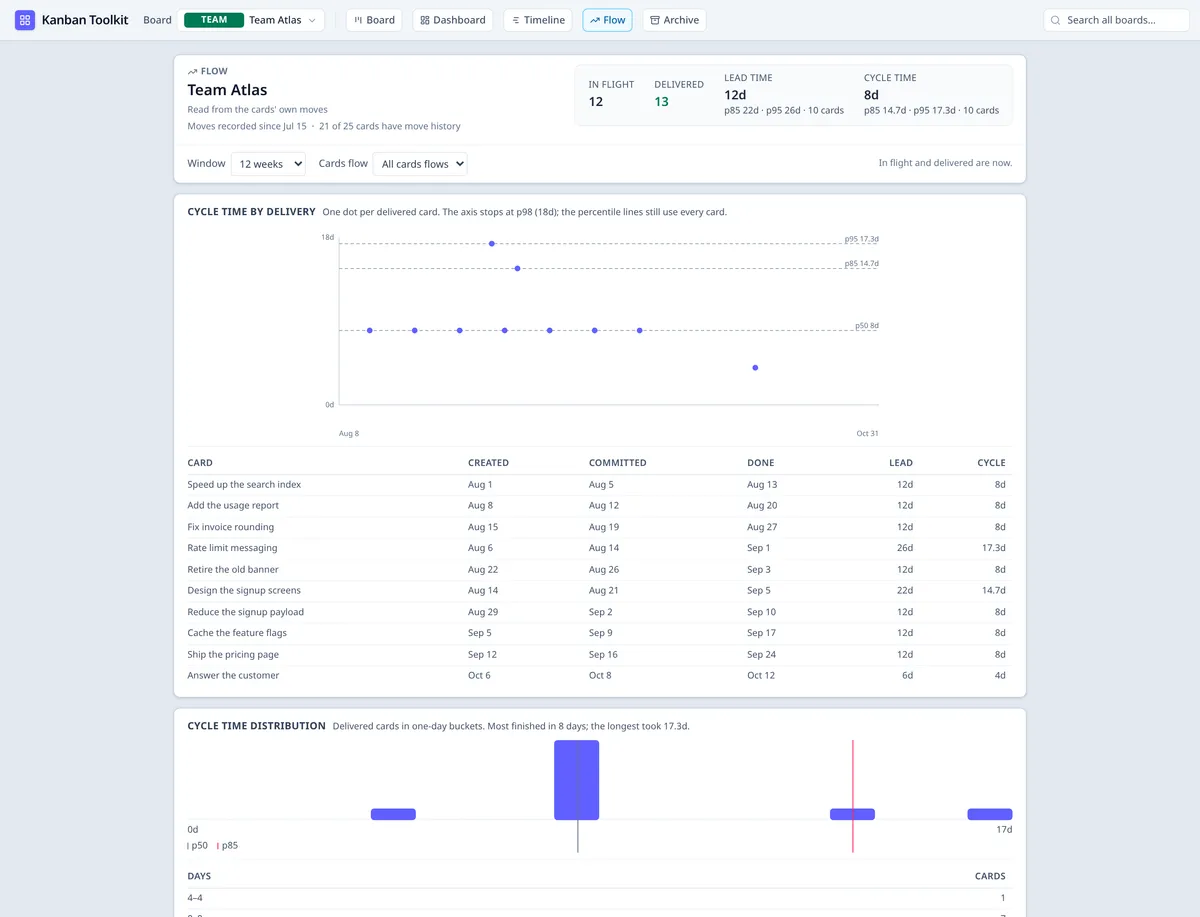
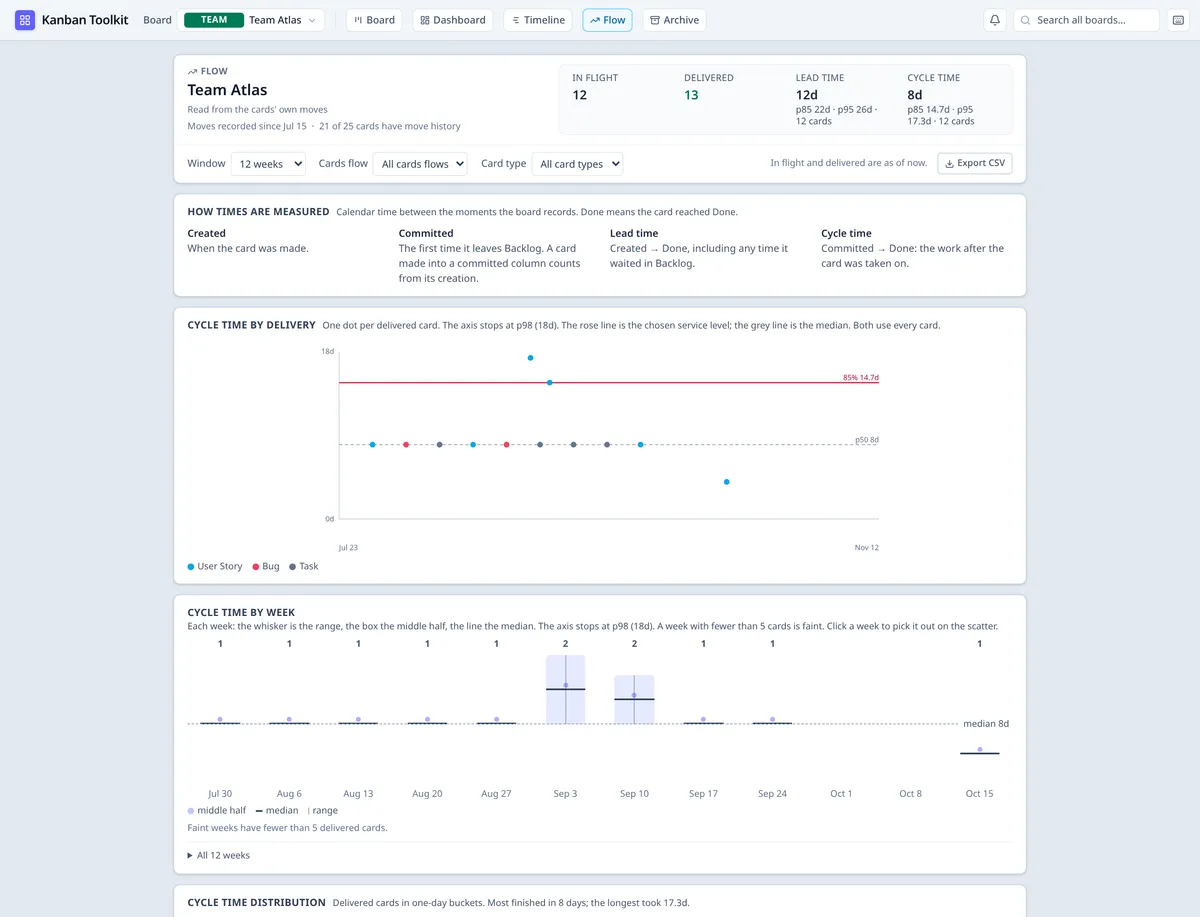
site: describe the new Flow readings and tighten the copy
The homepage and product page now describe the service level that reads both ways, weekly cycle ranges, WIP by age and net flow, and the Flow screenshots are regenerated from the current build. The homepage copy is smoothed where it had become telegrammatic: the hero, the initiatives summary, the warnings, and the level descriptions now carry a little more connective tissue without losing their voice. The old roll-up note is gone, and the privacy panel says what 'your work stays yours' actually means: the board is a file on a machine you control, not a tenant in somebody else's service. README and the Flow guide are updated to the same readings.

diff --git a/site/pages/home.html b/site/pages/home.html
@@ -8,7 +8,7 @@ path: /
     <div class="hero-copy">
       <h1>The open-source <br class="hero-break" /><span>Kanban board for teams</span></h1>
       <p class="lede">
-        Manage the day-to-day work and see how it adds up to larger initiatives. Where the work waits —
+        Manage day-to-day work and see how it connects to larger initiatives. Where the work waits —
         and why — is on the card, so progress and risk need no separate status report.
       </p>
       <p class="cta">
@@ -59,7 +59,7 @@ path: /
           <img src="/img/home-lanes.webp" width="900" height="403" alt="A split column: its cells side by side, each with the name the team gave it, its card count, and the cards inside." />
           <figcaption>
             <span class="dot" aria-hidden="true"></span>
-            Shape the board around the way your team works, with a WIP limit where it helps.
+            Shape the board around the way your team works, putting a WIP limit where it helps.
           </figcaption>
         </figure>
         <figure class="slide slide-2">
@@ -77,10 +77,10 @@ path: /
           </figcaption>
         </figure>
         <figure class="slide slide-4">
-          <img src="/img/home-flow.webp" width="900" height="750" alt="The Flow view: lead and cycle time, a delivery scatter, a cycle-time distribution and aging work, with range, cards-flow and card-type filters." />
+          <img src="/img/home-flow.webp" width="900" height="750" alt="The Flow view: lead and cycle time with a chosen service level, a delivery scatter and weekly range, and the cycle-time distribution, with range, cards-flow and card-type filters." />
           <figcaption>
             <span class="dot" aria-hidden="true"></span>
-            Lead time, cycle time, throughput and a forecast — read from the cards' own moves.
+            Percentile service levels, weekly ranges, aging WIP, net flow and a forecast — read from the cards' own moves.
           </figcaption>
         </figure>
       </div>
@@ -101,10 +101,10 @@ path: /
       <p class="kicker">For the whole team</p>
       <h2>The cards hold the detail. The initiatives show how it adds up.</h2>
       <p>
-        A team board is both at once. Its <strong>cards flows</strong> are a kanban the team shapes
-        for its own work — columns, splits and WIP limits, and a second flow when another kind of
-        work needs its own lane. The <strong>initiatives lane</strong> above reads those same cards
-        as the summary leaders and stakeholders see, so nothing is entered twice.
+        A team board does both at once. Its <strong>cards flows</strong> are a kanban the team shapes
+        for its own work — columns, splits and WIP limits, and a second flow when another kind of work
+        needs its own lane. The <strong>initiatives lane</strong> above reads those same cards as the
+        summary that leaders and stakeholders see, so nothing is entered twice.
       </p>
     </div>
 
@@ -133,16 +133,15 @@ path: /
           <svg class="ico" viewBox="0 0 24 24" fill="none" stroke="currentColor" stroke-width="1.8" stroke-linecap="round" stroke-linejoin="round" aria-hidden="true"><path d="M3 3v18h18"/><path d="m7 15 4-6 4 3 5-8"/></svg>
           The initiatives lane
         </p>
-        <h3>The summary leaders and stakeholders read</h3>
+        <h3>The summary that leaders and stakeholders read</h3>
         <p>
           Above the cards, the initiatives lane groups the outcomes the team delivers and counts
-          progress, dates and health from the cards beneath them — the same work, not a second
-          report.
+          progress, dates and health from the cards beneath it — the same work, not a second report.
         </p>
         <ul class="checked">
           <li>Progress and health rolled up as the cards move</li>
           <li>One summary to share with leaders and stakeholders</li>
-          <li>The detail stays on the card, where the team works</li>
+          <li>The working detail stays with the team, not in the summary</li>
           <li>Both views read one board and one set of cards</li>
         </ul>
       </article>
@@ -150,23 +149,18 @@ path: /
 
     <div class="signals-block">
       <p class="signals-head">
-        <strong>Warnings and roll-ups, counted from the work.</strong> A card says when it started
-        late, is overdue, has gone stale, is blocked or waits on a dependency. The same rules read
-        the hierarchy, so an initiative reports what needs attention below it. No flag is set by
-        hand, and each clears when the work moves.
+        <strong>Warnings and roll-ups, counted from the work.</strong> A card says when its planned
+        start has slipped, when it is overdue or stale, when it is blocked, or when it is waiting on a
+        dependency. The same rules read the hierarchy, so an initiative reports what needs attention
+        below it. No flag is set by hand, and each clears when the work moves.
       </p>
       <ul class="signals">
-        <li><span class="signal watch">late start</span>The planned start passed and the work has not begun.</li>
-        <li><span class="signal risk">3d overdue</span>The promise passed and the work is not done.</li>
-        <li><span class="signal watch">still 17d</span>Committed work that has not moved in a week.</li>
-        <li><span class="signal risk">blocked</span>The reason is written on the card, where the team sees it.</li>
-        <li><span class="signal quiet">2 open</span>Waiting on work that is not done, here or on another board.</li>
+        <li><span class="signal watch">late start</span>The planned start has passed, but the work has not begun.</li>
+        <li><span class="signal risk">3d overdue</span>The promised day has passed, and the work is not done.</li>
+        <li><span class="signal watch">still 17d</span>Committed work that has not moved for a week.</li>
+        <li><span class="signal risk">blocked</span>The reason is written on the card, not hidden in a chat.</li>
+        <li><span class="signal quiet">2 open</span>Work it depends on, whether here or on another board.</li>
       </ul>
-      <p class="signals-note">
-        <strong>It rolls up.</strong> The initiative above repeats the counts — <em>1 blocked</em>,
-        <em>2 waiting</em>, <em>still 29d</em>, <em>1 unowned</em> — read from its cards, so a
-        leader's summary and the team's board cannot disagree.
-      </p>
     </div>
   </div>
 </section>
@@ -191,8 +185,8 @@ path: /
         </p>
         <h3>The day-to-day work</h3>
         <p>
-          The team's own cards flows, columns and WIP limits, with the initiatives its work rolls up
-          into. This is where cards are made and moved.
+          The team's own cards flows, columns and WIP limits, together with the initiatives its work
+          rolls up into. This is where cards are created and moved.
         </p>
         <ul class="checked">
           <li>Cards, cards flows and the initiatives lane</li>
@@ -208,8 +202,8 @@ path: /
         </p>
         <h3>How teams deliver together</h3>
         <p>
-          A coordination board over the teams beneath it: its own initiatives and a band per linked
-          board, read for progress, dependencies and where one team is waiting on another.
+          A coordination board over the teams beneath it: its own initiatives, plus a band for each
+          linked board, read for progress, dependencies, and where one team is waiting on another.
         </p>
         <ul class="checked">
           <li>One band per linked team or program</li>
@@ -230,7 +224,7 @@ path: /
         </p>
         <ul class="checked">
           <li>Objectives and the initiatives mapped to them</li>
-          <li>Coverage: what nothing serves, and what serves nothing</li>
+          <li>Coverage: objectives with no initiative, and initiatives serving no objective</li>
           <li>Progress and health for each objective</li>
         </ul>
       </article>
@@ -262,8 +256,9 @@ path: /
         </p>
         <h3>Your work stays yours</h3>
         <p>
-          Changes save as you make them, or as soon as the connection returns, and land in the order
-          they were made, so everybody reads the same copy.
+          Your board is not a tenant inside somebody else's service. It is a database file on a
+          machine you control, with no vendor account in the path — copy it, move it or restore it
+          whenever you want.
         </p>
       </article>
 

diff --git a/site/pages/product.html b/site/pages/product.html
@@ -27,8 +27,8 @@ path: /product/
 <p>
   Every top-level column is one of four stages — Backlog, Not Started, In Progress, Done — and that is
   fixed. The shape between them is yours: split a column into the cells the team actually uses, name
-  them, and put a WIP limit on the one that needs it. A limit can tint the lane, ask for a reason, or
-  hold the move.
+  them, and put a WIP limit on the one that needs it. A limit can tint the lane, ask for a reason
+  before a move, or hold the move.
 </p>
 <p>
   A board carries one initiatives flow and one or more cards flows — a delivery flow and a support
@@ -80,10 +80,11 @@ path: /product/
 
 <h2 id="initiatives">Initiatives, computed from the work below</h2>
 <p>
-  An initiative has no status field and nothing to estimate. Its status is the rollup of its leaves,
-  and its completion is the share of them that are done — one issue, one share, counted rather than
-  weighted. A Backlog leaf counts in the percentage without dragging a committed initiative backwards,
-  and when committed work sits over unplanned leaves the card warns rather than correcting itself.
+  An initiative has no status field and nothing to estimate on its own. Its status is the rollup of
+  its leaves, and its completion is the share of them that are done — one issue, one share, counted
+  rather than weighted. A Backlog leaf counts in the percentage without dragging a committed
+  initiative backwards, and when committed work sits over unplanned leaves the card warns rather than
+  correcting itself.
 </p>
 <figure class="shot">
   <img src="/img/initiatives.webp" width="1408" height="499" alt="The initiatives flow: four initiatives under their stage headings, each with its progress bar, people and badges for warnings and rollups." />
@@ -93,7 +94,8 @@ path: /product/
 <p>
   A portfolio board leads with a strategy map. Each objective heads the board's own initiatives flow,
   narrowed to the initiatives attributed to it — from any board — and the two coverage gaps are said
-  where they occur: an objective nothing serves, and an initiative serving nothing.
+  where they occur: an objective with no initiative behind it, and an initiative that serves no
+  objective.
 </p>
 <p>
   Progress comes from the leaves below, and a period says when it is due. Key results are statements,
@@ -105,13 +107,15 @@ path: /product/
 
 <h2 id="flow">Flow, measured from the moves</h2>
 <p>
-  Every move is already in the card's history, so lead time, cycle time, throughput and a forecast are
-  read from the log rather than compiled by hand. The Flow view shows the delivery scatter, the
-  cycle-time distribution and aging work, with range, flow and card-type filters. Done means the card
-  reached Done.
+  Every move is already in the card's history, so lead and cycle time, their distributions,
+  throughput and a forecast are read from the log rather than compiled by hand. The Flow view shows
+  the delivery scatter and its weekly range, the cycle-time distribution, aging work, WIP by age,
+  net flow and a service level you can read from either end — choose a confidence for the days, or a
+  duration for the share. Range, flow and card-type filters make it one team's reading, and the
+  address carries it. Done means the card reached Done.
 </p>
 <figure class="shot">
-  <img src="/img/flow.webp" width="1440" height="1200" alt="The Flow view: in-flight and delivered counts, lead and cycle time with percentiles, a cycle-time scatter, a distribution and an aging-work table." />
+  <img src="/img/flow.webp" width="1440" height="1200" alt="The Flow view: in-flight and delivered counts, lead and cycle time with a chosen service level, a cycle-time scatter and weekly range, and the cycle-time distribution beneath." />
 </figure>
 
 <h2 id="every-view">One model, every altitude</h2>

diff --git a/site/site.css b/site/site.css
@@ -1068,27 +1068,6 @@ figcaption {
   color: var(--muted);
 }
 
-/* The roll-up: the same rules read one level up, so the reading is repeated rather than retyped. */
-.signals-note {
-  margin: 1rem 0 0;
-  padding-top: 0.9rem;
-  border-top: 1px solid var(--line);
-  max-width: none;
-  font-size: 0.8rem;
-  line-height: 1.65;
-  color: var(--muted);
-}
-
-.signals-note strong {
-  color: var(--ink);
-}
-
-.signals-note em {
-  font-style: normal;
-  font-weight: 650;
-  color: var(--ink);
-}
-
 /* The promises: one claim in three parts, each with the proof beside it. */
 .promises {
   display: grid;

diff --git a/docs/metrics.md b/docs/metrics.md
@@ -7,10 +7,11 @@ work visible, and forecast with a range instead of a date.
 
 ## What the Flow view is now
 
-The screen is the header reading, the cycle-time scatter, the cycle-time distribution, aging work,
-the cumulative flow diagram, throughput, and one **Planning** panel with three readings: the service
-level expectation, when the open work will be done, and how many by a date. The controls row also
-exports the window's delivered cards — the rows the scatter used to list — as CSV.
+The screen is the header reading, the two-way service-level explorer, the cycle-time scatter and its
+weekly range, the cycle-time distribution, aging work, WIP and age, the cumulative flow diagram,
+throughput, flow stability, and one **Planning** panel with three readings: the service level
+expectation, when the open work will be done, and how many by a date. The controls row also exports
+the window's delivered cards — the rows the scatter used to list — as CSV.
 
 The **service level** reads both ways. Choose a confidence and it names the days; type a duration and
 it names the share of the window's cards that finished within it. It can read **cycle time**
@@ -45,9 +46,9 @@ The cycle-time dots and the throughput bars are coloured by the card's **type**,
 own type colours. Each chart carries a legend naming the types in its window; the tooltip names the
 type again, and so does the CSV.
 
-<img src="img/guide/flow-view.webp" alt="The Flow view for Team Atlas: the header reading, cycle-time scatter and distribution, aging work, cumulative flow, throughput and the planning panel" width="1100">
+<img src="img/guide/flow-view.webp" alt="The Flow view for Team Atlas: the header reading, the chosen service level on the cycle-time scatter, the weekly cycle range, and the cycle-time distribution beneath" width="1200">
 
-*The Flow view: the window, cards flow and card type at the top, with the delivery history beneath them.*
+*The Flow view: the window, cards flow and card type at the top, the chosen service level and the weekly shape beneath, with the distribution below them.*
 
 Three things were built and then removed when the screen was narrowed: **blocked work**, **Little's
 Law**, and the **data-quality section**. The **CSV export** went with them, and came back once the
@@ -143,7 +144,7 @@ Minimums before forecasting: at least 4 weeks in the window and at least 8 deliv
 that the screen says what is missing and shows nothing else. Range estimates are not built: a typed
 range would be a second source of truth beside the board.
 
-<img src="img/guide/flow-planning.webp" alt="The Planning panel: service level, when the open work will be done, and how many by a date" width="1100">
+<img src="img/guide/flow-planning.webp" alt="The panels above Planning — cumulative flow, throughput and flow stability — then the service-level controls, the forecast range and the chance of a number by a date" width="1200">
 
 *The Planning panel reads the same window and throughput three ways: the service level of the past,
 the forecast range for the open scope, and the chance of a number by a date. The two forecasts share

diff --git a/docs/using.md b/docs/using.md
@@ -195,8 +195,9 @@ a program's outcome is decomposed into a team's initiative.
   still wide enough to print a day number with room around it — and the width is kept in the page's
   address, so a link opens the reading it names.
 - **Flow** — on a team board, lead time (how long a card takes from start to finish) and cycle time
-  (how long it takes to finish once work has started), throughput, their distributions, aging, a
-  service level expectation (how long most work takes) and a forecast of when the open work could
+  (how long it takes to finish once work has started), their distributions and weekly ranges,
+  throughput, aging work, WIP by age, net flow, a service level you can read from either end (a
+  confidence gives the days, a duration gives the share) and a forecast of when the open work could
   finish. The time window (4 to 26 weeks, or all history), the cards-flow filter and the card-type
   filter are kept in the page's address. A program or portfolio board has no
   cards flow, so it offers no Flow view. The definitions and the reasoning are in

diff --git a/README.md b/README.md
@@ -75,8 +75,8 @@ browser. There is no account and nothing is collected.
   - Health flags for blocked, waiting, stale, unowned, unplanned work below, and past target date.
 - **Views**
   - Dashboard and timeline of a board's initiatives.
-  - Flow metrics on team boards: lead time, cycle time, throughput, distributions, aging and a
-    forecast.
+  - Flow metrics on team boards: lead and cycle time, throughput, distributions, weekly ranges,
+    aging and WIP by age, net flow, a two-way service level and a forecast.
   - Strategy map on portfolio boards: objectives, key results, the initiatives that serve them, and
     coverage gaps. An objective's completeness comes from the work below it.
   - Archive of completed and discarded work, with restore; finished cards are filed a week after
